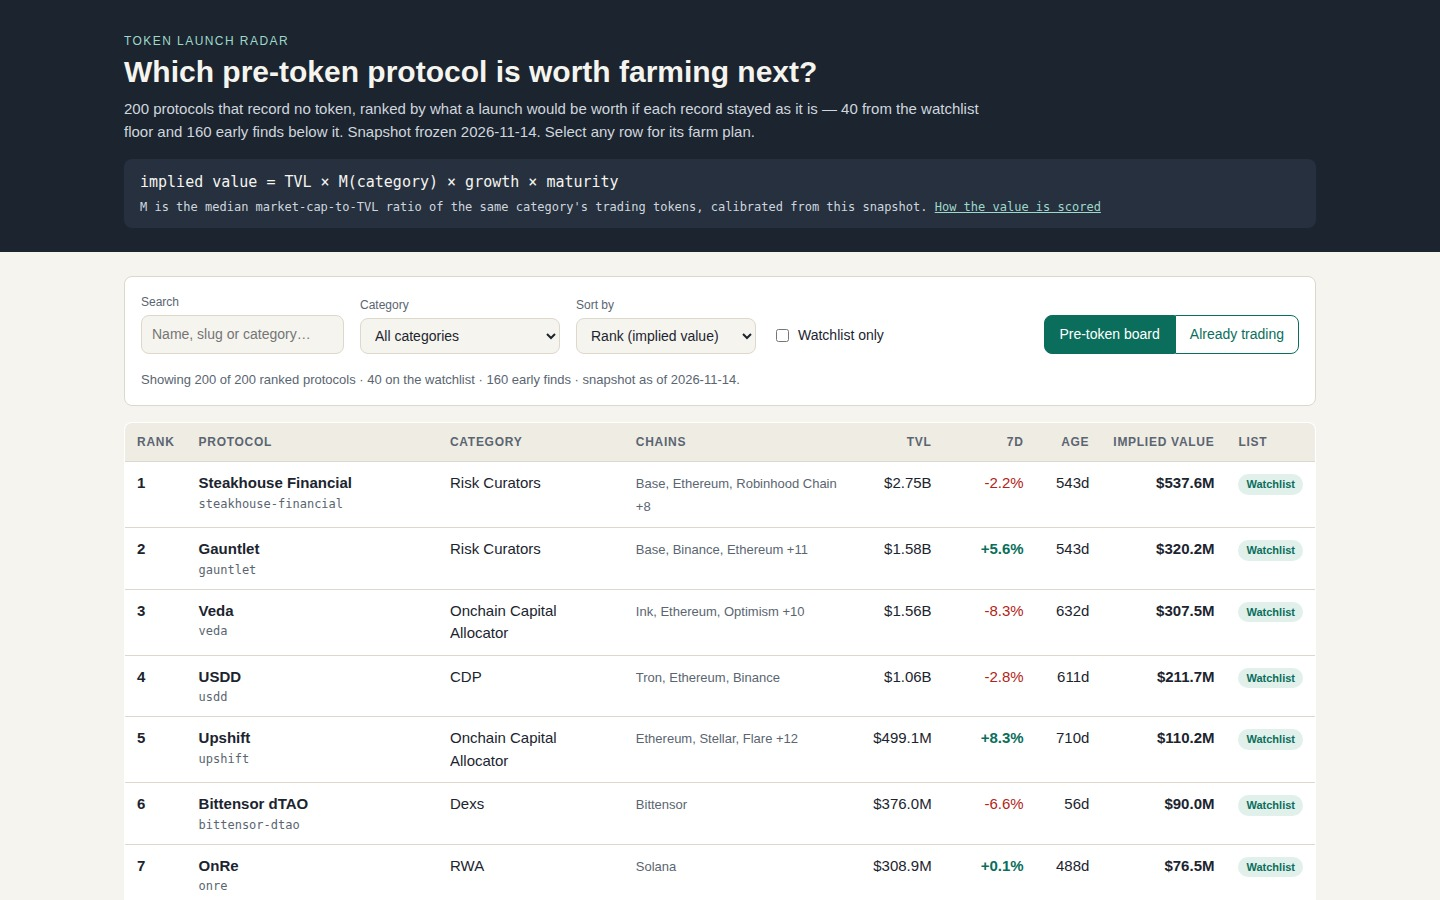
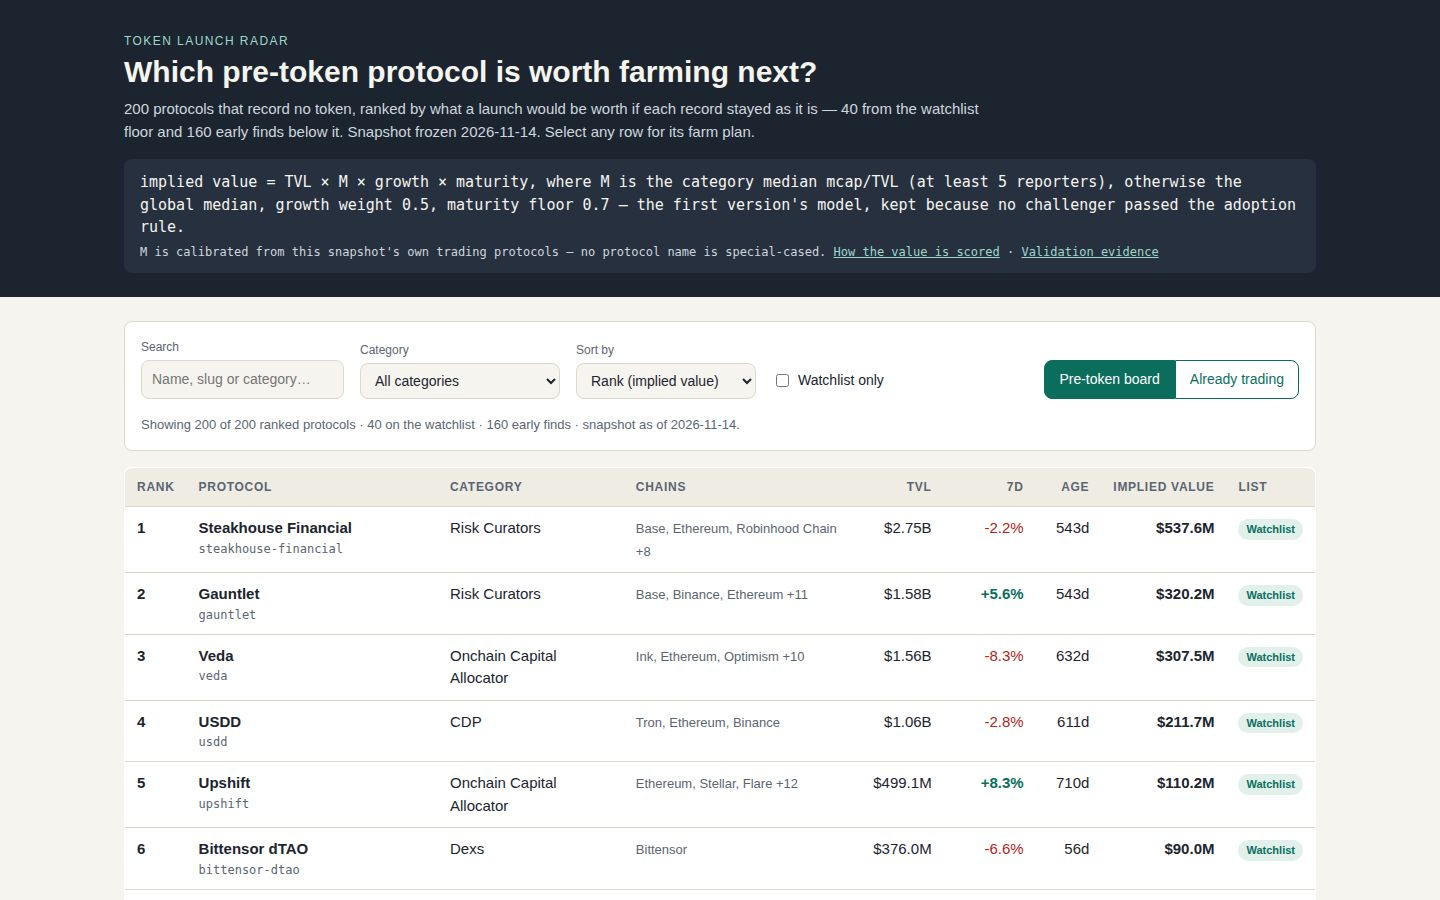
Re-render 4 screenshots from v2 dashboard; fix scatter axis tick clipping

diff --git a/dashboard/app.js b/dashboard/app.js
@@ -338,7 +338,8 @@
     for (i = 0; i <= 4; i++) {
       t = minX + (maxX - minX) * i / 4;
       out.push('<line x1="' + X(t).toFixed(1) + '" y1="' + Y(minY) + '" x2="' + X(t).toFixed(1) + '" y2="' + Y(maxY) + '" class="grid"/>');
-      out.push('<text x="' + X(t).toFixed(1) + '" y="' + (H - 18) + '" class="tick">' + fmtUSD(Math.exp(t)) + '</text>');
+      var anchor = i === 0 ? 'start' : i === 4 ? 'end' : '';
+      out.push('<text x="' + X(t).toFixed(1) + '" y="' + (H - 18) + '" class="tick ' + anchor + '">' + fmtUSD(Math.exp(t)) + '</text>');
       t = minY + (maxY - minY) * i / 4;
       out.push('<line x1="' + X(minX) + '" y1="' + Y(t).toFixed(1) + '" x2="' + X(maxX) + '" y2="' + Y(t).toFixed(1) + '" class="grid"/>');
       out.push('<text x="' + (padL - 8) + '" y="' + (Y(t).toFixed(1) + 4) + '" class="tick end">' + fmtUSD(Math.exp(t)) + '</text>');

diff --git a/dashboard/app.css b/dashboard/app.css
@@ -134,6 +134,7 @@ td .chains { font-size: 13px; color: var(--muted); }
 #charts .dot { fill: var(--accent); opacity: 0.65; }
 #charts .tick { font-size: 10px; fill: var(--muted); text-anchor: middle; }
 #charts .tick.end { text-anchor: end; }
+#charts .tick.start { text-anchor: start; }
 #charts .axislabel { font-size: 11px; fill: var(--muted); text-anchor: middle; }
 #charts .barlabel { font-size: 11px; fill: var(--ink); }
 #charts .bar { fill: #c9c4b8; }
